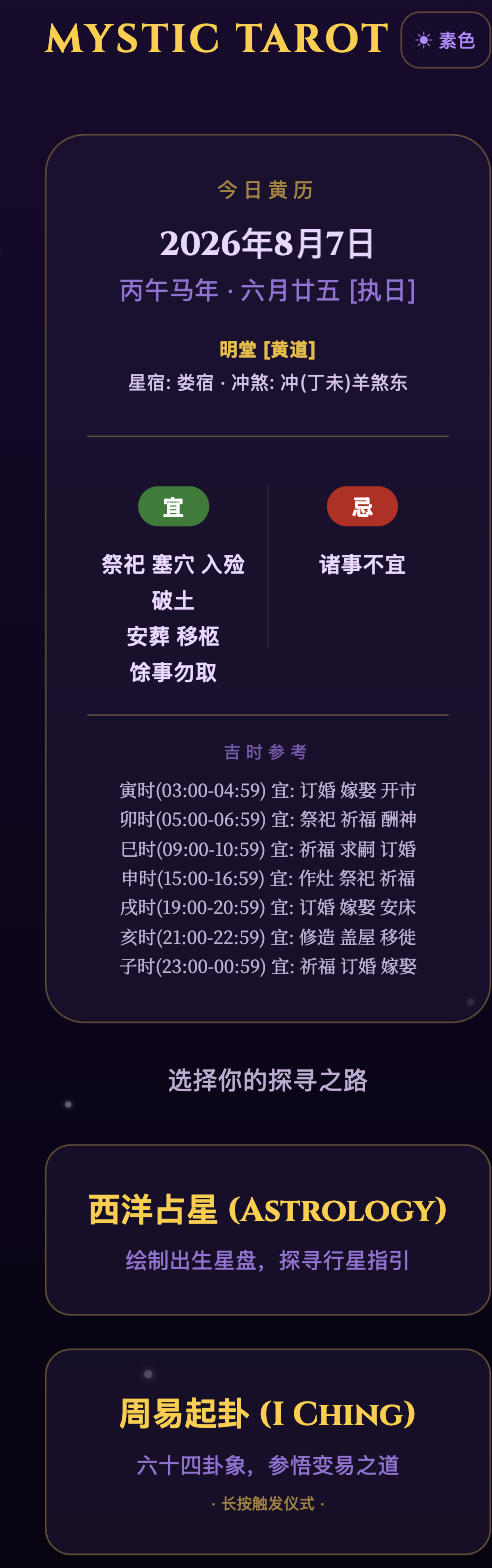
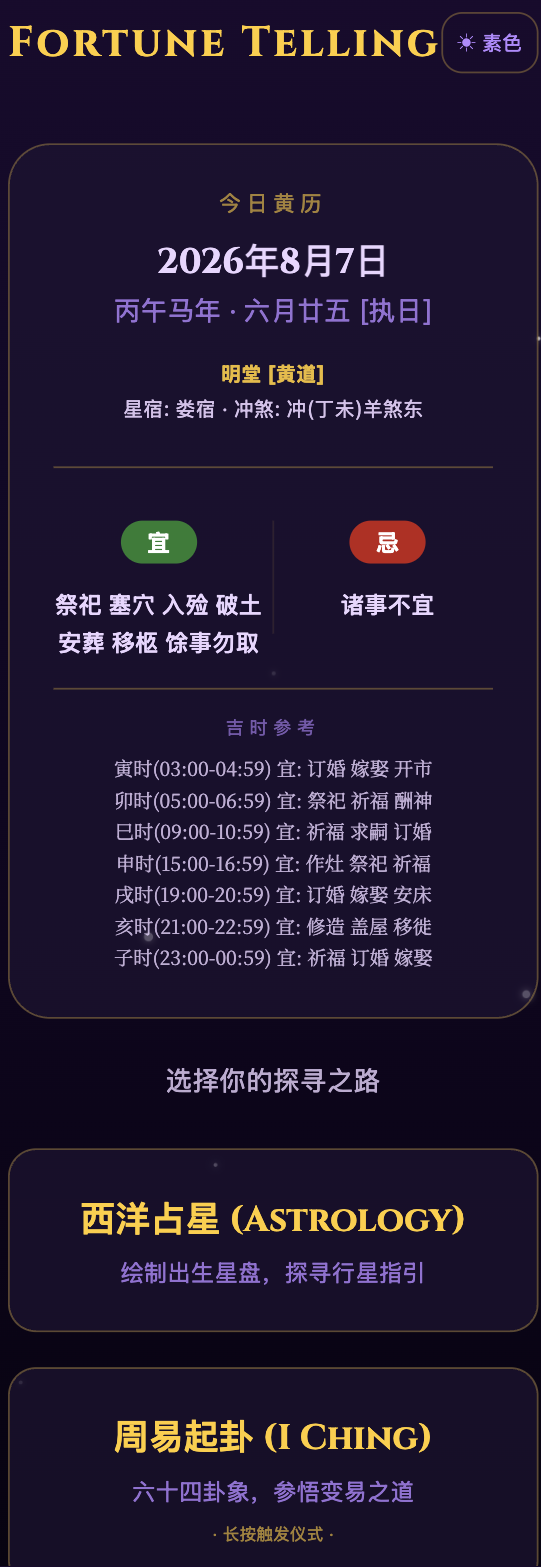
fix: rename app header from MYSTIC TAROT back to Fortune Telling
Traced the origin first (git log -S): "MYSTIC TAROT" was introduced
by the project owner's own commit d39ae9a (2026-01-14, "UI 已经比较令
人满意了"), not by Codex or this session's work. It was originally a
theme-conditional title (MYSTIC TAROT / ZEN AESTHETIC) that later got
simplified to a static string. Owner decision now: keep "Fortune
Telling" as the app's actual name.

Updated App.js header text, fastlane title.txt and full_description.txt
to match, and regenerated all 3 phoneScreenshots (they show the live
header, so they'd have been inconsistent with the store title
otherwise). 34/34 tests, 0 lint errors.

diff --git a/App.js b/App.js
@@ -854,7 +854,7 @@ function AppInner() {
                 { color: theme.accent, fontFamily: fontsLoaded ? theme.fontTitle : (Platform.OS === 'web' ? 'serif' : undefined) },
               ]}
             >
-              MYSTIC TAROT
+              Fortune Telling
             </Text>
             <View style={{ flexDirection: "row", alignItems: "center" }}>
               <TouchableOpacity
